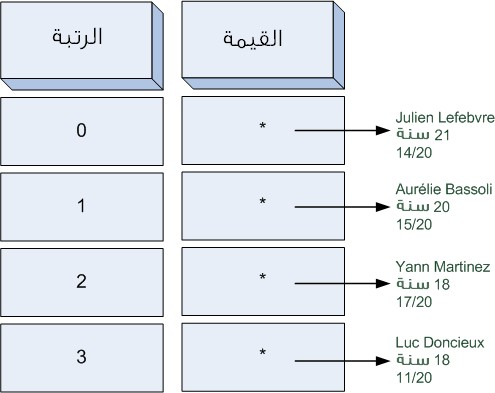
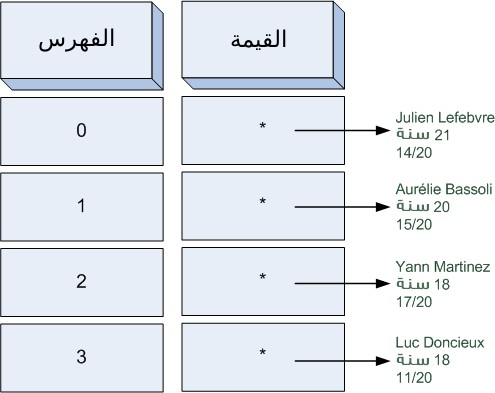
القيام ببعض التصحيحات

Changed region(s): [[0.0909, 0.0611, 0.2424, 0.1527], [0.4545, 0.0611, 0.5758, 0.1221]]

diff --git a/Chapter_I-8.tex b/Chapter_I-8.tex
@@ -245,7 +245,7 @@ int main ( int argc, char** argv )
 \textbf{مادام العدد الذي تم إدخاله لا يساوي العدد الغامض}.\\
 و ما إن يتم إدخال العدد المطلوب تتوقف الحلقة و بالتالي ينتهى البرنامج هنا.
 
-\section{أفكار للتحسين}
+\section*{أفكار للتحسين}
 
 لم تعتقد أنّي أريد للعمل التطبيقي أن ينتهي هنا ؟ أنا أصرّ على أن تقوم بتحسين البرنامج، من أجل التدريب. و لتتأكد بأنه مع التدريب ستتطور قدراتك ! من يعتقد أنه يقرأ الدروس و لا يطبّق ما جاء فيها فهو مخطئ، أقولها و أكررها !
 

diff --git a/Chapter_III-7.tex b/Chapter_III-7.tex
@@ -859,7 +859,7 @@ int main(int argc, char *argv[])
 
 حظاً موفقا !
 
-\section*{تلخيص}
+\section*{ملخّص}
 
 \begin{itemize}
 	\item لا يمكننا أن نكتب نصاً في الـ\textenglish{SDL}،
